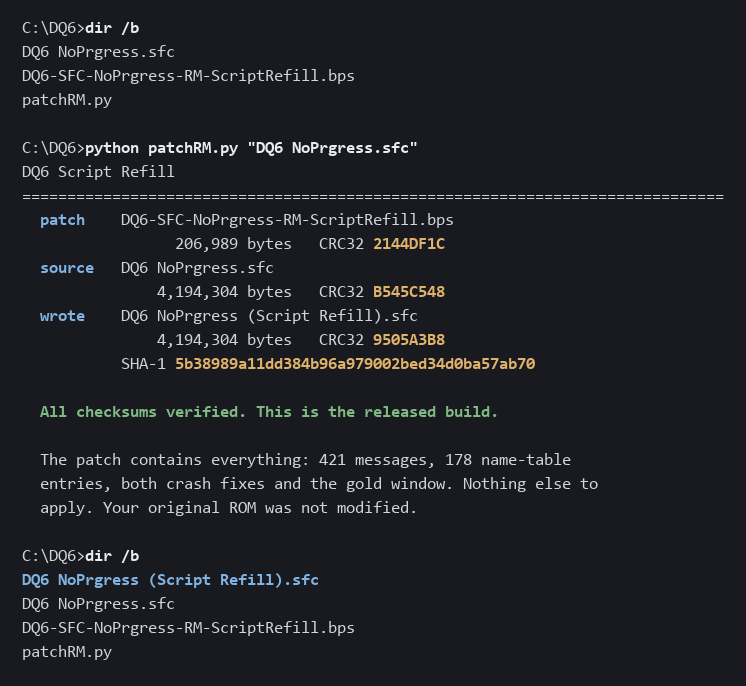
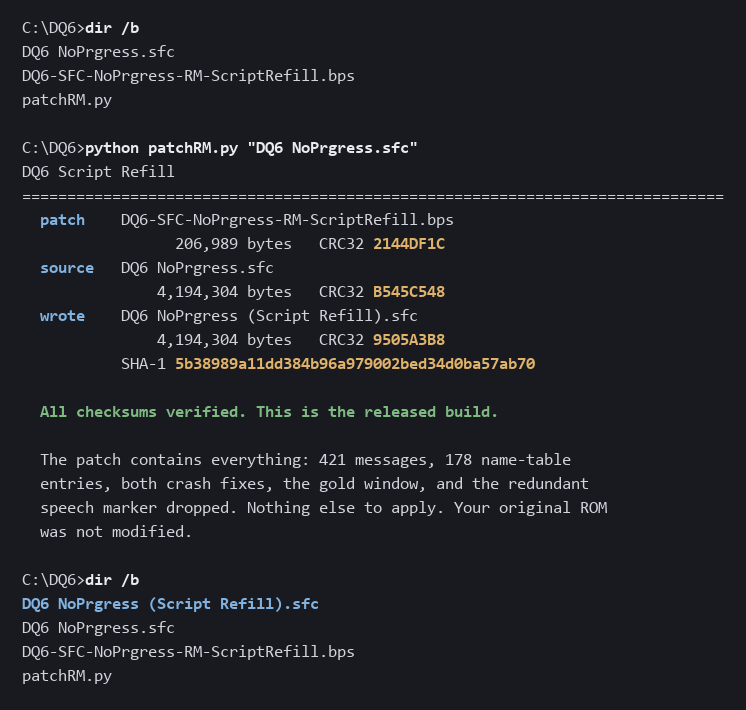
Docs and tooling: describe the marker as dropped, not swapped
Sweep after v1.2 for anything still describing the earlier, wrong
fix or the claim it invalidated.

  build.py        docstring said six steps and claimed their 6,539
                  messages come out byte-identical. Seven steps now,
                  and it states what is true: every message is symbol
                  for symbol as they wrote it apart from the 421 never
                  written and the one marker dropped from 534 openings.
  tools/verify.py a stale comment still described substituting $0247.
                  The code already dropped; the comment now agrees.
  tools/README.md verify.py's section did not mention that it enforces
                  the not-one-word-altered promise, or that it reports
                  words-altered and markers-dropped separately so the
                  two are never conflated. Two rows added to the claim
                  table.
  patchRM.py      its closing summary listed four things the patch
                  contains. It contains five.
  docs/METHOD.md  7a carried a four-point plan to spread $559 across
                  authored lines by measured rate. Sound shape, wrong
                  symbol: the pass that ran was the opposite. Rewritten
                  to keep the method and add the precondition it was
                  missing, which is to confirm a glyph renders before
                  multiplying it. The symbol table and the 12.6 percent
[…]

diff --git a/build.py b/build.py
@@ -11,20 +11,24 @@ Everything it needs is either in this repository or in this file, so a stock
 NoPrgress ROM plus the two text files reproduces the released ROM. Nothing is
 fetched from anywhere else.
 
-It does six things:
+It does seven things:
   1. applies both crash fixes, Info > All and Forget (see apply_crash_fixes)
   2. restores the gold window on the info screen (see apply_gold below)
   3. writes the 178 authored name-table entries (see apply_names below)
   4. decodes all 6,960 messages from the unmodified payload
   5. substitutes the 421 authored English messages
-  6. re-encodes every message with the ROM'S EXISTING Huffman trees, rebuilds
+  6. drops the redundant opening speech marker from 534 message openings
+     (see drop_speech_marker below)
+  7. re-encodes every message with the ROM'S EXISTING Huffman trees, rebuilds
      the 870-entry pointer table, and recomputes the internal checksum
 
 The trees are never modified. Every symbol already has exactly one code path in
-them, so the encode is deterministic and the 6,539 messages that are not
-touched come out byte-identical to the ones NoPrgress shipped. That property is
-worth checking after any change to this script: decode the output and compare
-the untouched messages against the input.
+them, so the encode is deterministic: every message comes out symbol for symbol
+as NoPrgress wrote it, apart from the 421 that were never written and the one
+marker symbol dropped from 534 openings. **Not one word of their writing is
+altered.** That property is worth checking after any change to this script, and
+tools/verify.py checks it: it fails if any symbol other than that marker moves
+in any of their messages.
 
 Message system, decoded from the ROM at $C0:2B69 onward:
   - Pointer table at $C1:5BB5, 870 entries of 3 bytes, indexed by (ID >> 3).

diff --git a/tools/verify.py b/tools/verify.py
@@ -203,9 +203,9 @@ def main(argv):
     theirs = [i for i in range(len(old)) if i not in was_placeholder]
     touched = [i for i in theirs if old[i] != new[i]]
 
-    # Their messages may differ in exactly one way and no other: the opening
-    # speech marker $0559, which has no English glyph, swapped for the plain
-    # asterisk $0247 they already use. Anything else is a word changed.
+    # Their messages may differ in exactly one way and no other: the redundant
+    # opening marker $0559 dropped. It has no English glyph and it sat after a
+    # mark the engine already draws. Anything else is a word changed.
     marker, reworded = [], []
     for i in touched:
         o, n = old[i][0], new[i][0]

diff --git a/patchRM.py b/patchRM.py
@@ -174,8 +174,9 @@ def main(argv):
         print('  release build (CRC32 %08X).' % EXPECT_DST_CRC)
     print()
     print('  The patch contains everything: 421 messages, 178 name-table')
-    print('  entries, both crash fixes and the gold window. Nothing else to')
-    print('  apply. Your original ROM was not modified.')
+    print('  entries, both crash fixes, the gold window, and the redundant')
+    print('  speech marker dropped. Nothing else to apply. Your original ROM')
+    print('  was not modified.')
     return 0
 
 

diff --git a/docs/METHOD.md b/docs/METHOD.md
@@ -290,7 +290,7 @@ one pass. In this ROM the translators' English uses:
 | symbol | role | evidence |
 |---|---|---|
 | `$240` | opening quote after a speaker tag | 3,290 uses, 99.8% within 14 symbols of a `{D4}` tag; 1,489 align with JP `「` |
-| `$559` | opening mark for untagged NPC speech | 519 message-initial; no JP counterpart, so it is their addition |
+| `$559` | opening mark for untagged NPC speech | 519 message-initial; no JP counterpart, so it is their addition. **It has no glyph. See below** |
 | `$576`/`$579` | `『 』`, for signs and written text | 38/38 align with JP `『` |
 | `$577`/`$578` | inline quotation pair | 13 uses each, wrapping quoted words |
 
@@ -299,6 +299,11 @@ convention at 12 percent is optional: measure the rate before adopting one.
 `$240` follows 91.9% of speaker tags, so new text that omits it is visibly
 foreign; `$559` opens only 12.6% of NPC lines and varies by region of the script
 (6% to 40% across ID buckets), so omitting it matches the majority everywhere.
+
+That reading of `$559` was correct about the rate and wrong about the thing.
+It turned out to have no glyph and to sit after a mark the engine already
+draws, so the honest answer was not to match its rate but to delete it. The
+measurement was fine; what was missing was ever looking at it on a screen.
 
 Second, and more important:
 
@@ -311,7 +316,8 @@ Enumerate it directly by walking the trees:
 - The music note `$634` is encodable in Japanese and **not** in English. It is a
   hard limit, not an oversight, and no amount of authoring skill recovers it.
 - The tilde slot `$559` *is* encodable, but the translators repurposed it for
-  the NPC speech mark above, so a literal tilde is equally unavailable.
+  the NPC speech mark above, so a literal tilde is equally unavailable. And
+  encodable turned out not to mean drawable: see the next section.
 
 Do this enumeration before authoring, not after. "The glyph does not appear in
 their text" and "the glyph cannot be written" are different claims with
@@ -381,22 +387,20 @@ text that is uniformly cleaner than the original is a tell, and uniformly
 Handle these by deferring them. Author without the mark, flag it, and apply it
 at the end in one scripted pass whose target is measured rather than chosen.
 
-The criterion this project will use for `$559`, the untagged-NPC speech mark:
+This project planned exactly that pass for `$559`, the untagged-NPC speech
+mark, with a measured per-region target rather than a global one, eligibility
+decided structurally, and a re-measurement afterwards to prove it landed inside
+the neighbouring rate. The design was sound and the shape is worth copying.
 
-1. **Trigger:** all 416 lines authored and reviewed. Not before, because the
-   run distribution is not known until then and the pass is worthless applied
-   to a partial corpus.
-2. **Target:** per region, not globally. For each authored run, measure the mark
-   rate among translated messages within plus or minus 40 IDs. It varies from 6
-   percent to 40 percent across the script, and the 3440-3520 neighborhood runs
-   at 2 of 51, so a single global figure would over-mark some regions and
-   under-mark others.
-3. **Eligibility:** only lines that are untagged NPC speech. Lines opening with
-   a `{D4}` speaker tag take the tag quote instead, and system or narration
-   lines take neither. This classification is structural and scriptable.
-4. **Verification:** re-measure after the pass and require the refilled lines to
-   sit inside the neighbor rate for their own region. A pass that cannot be
-   verified by re-measurement has not been done.
+It was also aimed at the wrong symbol. `$559` has no glyph and duplicates a
+mark the engine draws, so the correct action was to remove it from the 534
+openings that carried it, not to spread it across new ones. The pass that
+eventually ran was the opposite of the one planned.
+
+Keep the shape, and add a precondition to it: **before deferring a convention
+to a mechanical pass, confirm the thing you are about to multiply renders
+correctly.** A rate is a property of the source; a glyph is a property of the
+screen, and only one of those is visible in a corpus.
 
 The same shape applies to any minority habit: measure the rate, defer the
 decision, apply mechanically, verify by re-measuring.

diff --git a/tools/README.md b/tools/README.md
@@ -100,6 +100,12 @@ is repacked wholesale, so almost every byte in that region moves and comparing
 bytes proves nothing. Instead all 2,512 string IDs are resolved the way the
 game resolves them, in both ROMs, and the results are compared.
 
+It also enforces the promise the README makes about NoPrgress's own writing.
+Their messages are allowed to differ in exactly one way, the redundant opening
+marker `$0559` being dropped, and the check fails if any other symbol in any of
+their messages moves. It reports the two separately, so "not one word altered"
+and "how many markers were dropped" are never conflated.
+
 ---
 
 ## What is not here, deliberately
@@ -148,6 +154,8 @@ python nametable.py DQ6-NoPrgress.sfc --dictionary
 | the seven space-carrying dictionary codes | NAME-TABLE | `nametable.py --dictionary` |
 | solving a format against its own consistency | METHOD 7b | `nametable.py --dictionary` |
 | the per-region line caps | NAME-TABLE | `nametable.py --widths` |
+| not one word of their text altered | README | `verify.py` |
+| the redundant marker dropped from 519 of their lines | README | `verify.py` |
 | the build verification | README | `verify.py` |
 
 ---

diff --git a/README.md b/README.md
@@ -82,10 +82,14 @@ The engine draws the opening mark on NPC dialogue itself. On a line with no
 speaker tag it emits a star and a bracket before the first word, which is what
 the Japanese original draws too.
 
-NoPrgress then added symbol `$0559` on top of that, on **534 message
-openings**. `$0559` is the one symbol in their script with no English glyph
-behind it, so it drew a stray two-part mark, sitting after a marker the engine
-had already produced. It was redundant as well as broken.
+NoPrgress then added symbol `$0559` on top of that, on 519 message openings.
+`$0559` is the one symbol in their script with no English glyph behind it, so
+it drew a stray two-part mark, sitting after a marker the engine had already
+produced. It was redundant as well as broken.
+
+**534 openings are cleared in total**: their 519, plus 15 of the authored
+messages, which had been given the same marker to match their habit before it
+was understood.
 
 ```
 before   * : <stray>Welcome to Amoru, town of water.
